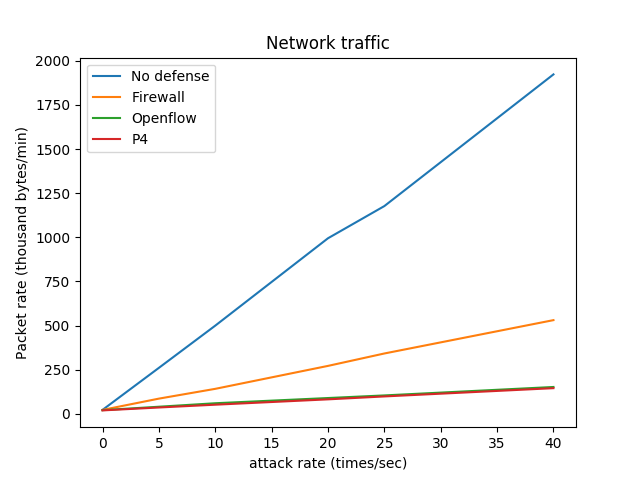
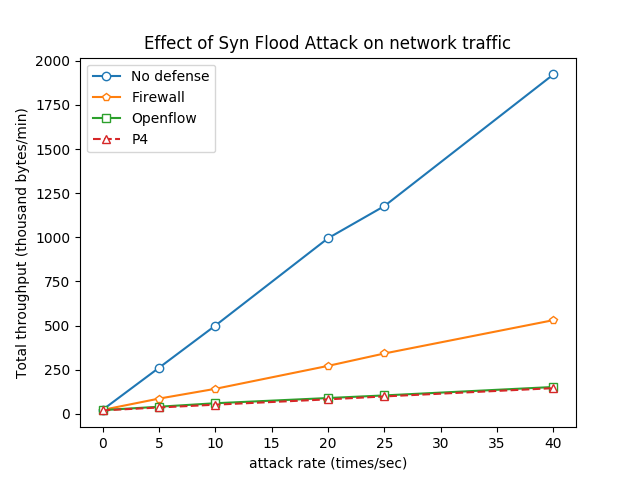
Data Ver6

diff --git a/plot_packet.py b/plot_packet.py
@@ -2,16 +2,30 @@ import matplotlib.pyplot as plt
 import numpy as np
 
 def plot():
-    #x= [1,2,3]
-    x = ['Firewall' , 'Openflow' , 'P4']
-    p4 = 160/181*116
-    y = [121,101,p4]
-    plt.bar(x,height=y)
-    plt.title ("Data traffic of switch(s1) after Syn Flooding")
-    plt.ylabel ("Packet rate (thousand bytes/min)")
 
-    plt.axhline(113,color = 'k',linestyle = '--')
-    plt.text(1.5,117,"Benign data traffic",fontsize = 12,color = 'k')
+    no_x = [0,5,10,20,25,40]
+    no_y = [22113/1000,260230/1000,499428/1000,994566/1000,1176930/1000,1923062/1000]
+    no_line = plt.plot(no_x,no_y,'-',marker = 'o',mfc = 'w',label = "No defense")
+ 
+    
+    tran_x = [0,5,10,20,25,40]
+    tran_y = [21815/1000,85790/1000,141238/1000,271262/1000,341586/1000,530549/1000]
+    tran_line = plt.plot(tran_x,tran_y,'-',marker = 'p',mfc = 'w',label = "Firewall")
+    
+    of_x = [0,5,10,20,25,40]
+    of_y = [20468/1000,39838/1000,59588/1000,89130/1000,103932/1000,151748/1000]
+    of_line = plt.plot(of_x,of_y,'-',marker = 's',lw = 1.5,mfc= 'w',label = "Openflow")
+    
+    p4_x = [0,5,10,20,25,40]
+    p4_y = [19049/1000,35547/1000,51432/1000,81689/1000,98226/1000,145075/1000]
+    p4_line = plt.plot(p4_x,p4_y,'--',marker = '^',mfc = 'w',label = "P4")
+
+    plt.title ("Effect of Syn Flood Attack on network traffic")
+    plt.ylabel ("Total throughput (thousand bytes/min)")
+    plt.xlabel ("attack rate (times/sec)")
+    plt.legend(loc = 'upper left')
+    
+    #plt.show()
     plt.savefig("packet_num.png",format="png")
 
 if __name__ == '__main__':

diff --git a/test_ryuapp.py b/test_ryuapp.py
@@ -96,6 +96,7 @@ class test_RyuApp(app_manager.RyuApp):
                   "---------------- "
                   "------------ ")
             """
+            
             if body[0].table_id==1 :
                 for stat in sorted([flow for flow in body if flow.priority > 0],
                                    key=lambda flow: (flow.match['ipv4_src'])):
@@ -204,6 +205,7 @@ class test_RyuApp(app_manager.RyuApp):
             temp = ip.split(".")
             
             if self.ack_table[ip] == 0 and self.sa_table[ip] > 0:
+                
                 ip_str = temp[0]+"."+temp[1]+"."+temp[2]
                 unsafe_C.setdefault(ip_str,0)
                 unsafe_C[ip_str] += 1
@@ -228,8 +230,10 @@ class test_RyuApp(app_manager.RyuApp):
             inst = []
             temp = ip_str.split(".")
             ip_str = temp[0]+ "." + temp[1]
+            
             print("ip_str",ip_str)
             print("datapath_ip",self.B_datapath_ip[ip_str])
+            
             ID = self.B_datapath_ip[ip_str]
             mod = parser.OFPFlowMod(datapath = self.datapaths[ID],table_id=0,priority = 20,cookie = 1,match = match,instructions = inst)
             self.datapaths[ID].send_msg(mod)

diff --git a/plot_controller.py b/plot_controller.py
@@ -41,7 +41,7 @@ def plot_controller(file1,file2):
     line1 = plt.plot(time,data1,'-',label = 'Openflow')
     plt.title("Data traffic of Controller")
     plt.xlabel("time(sec)")
-    plt.ylabel("Packet rate(bytes/sec)")
+    plt.ylabel("Throughput(bytes/sec)")
 
     plt.axvline(60,0,5000,linestyle='--',color = 'k')
     

diff --git a/read_packet.py b/read_packet.py
@@ -30,6 +30,7 @@ def calculate(files):
                 lines[i+1] = int(lines[i+1])
                 total2+=lines[i+1]
             else:
+                fp.close()
                 break
 
     print("first min: ",total)
